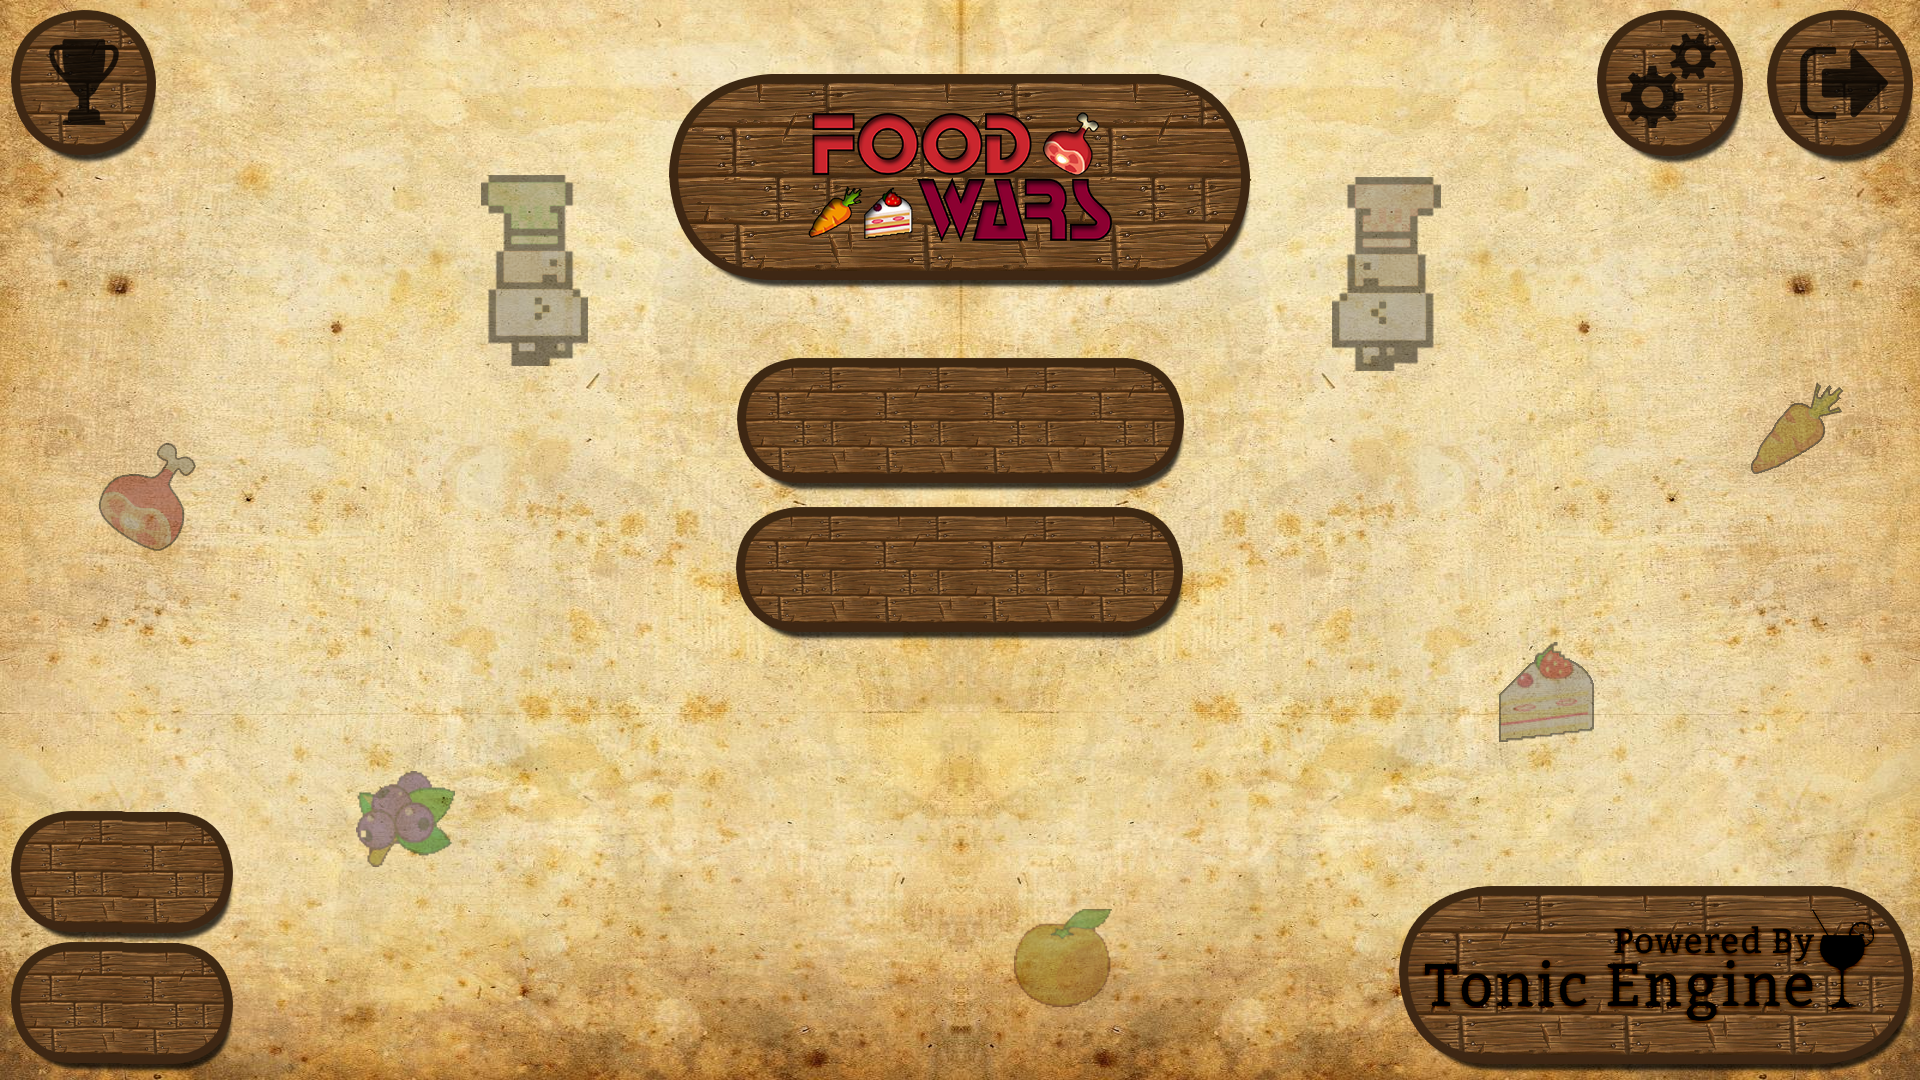
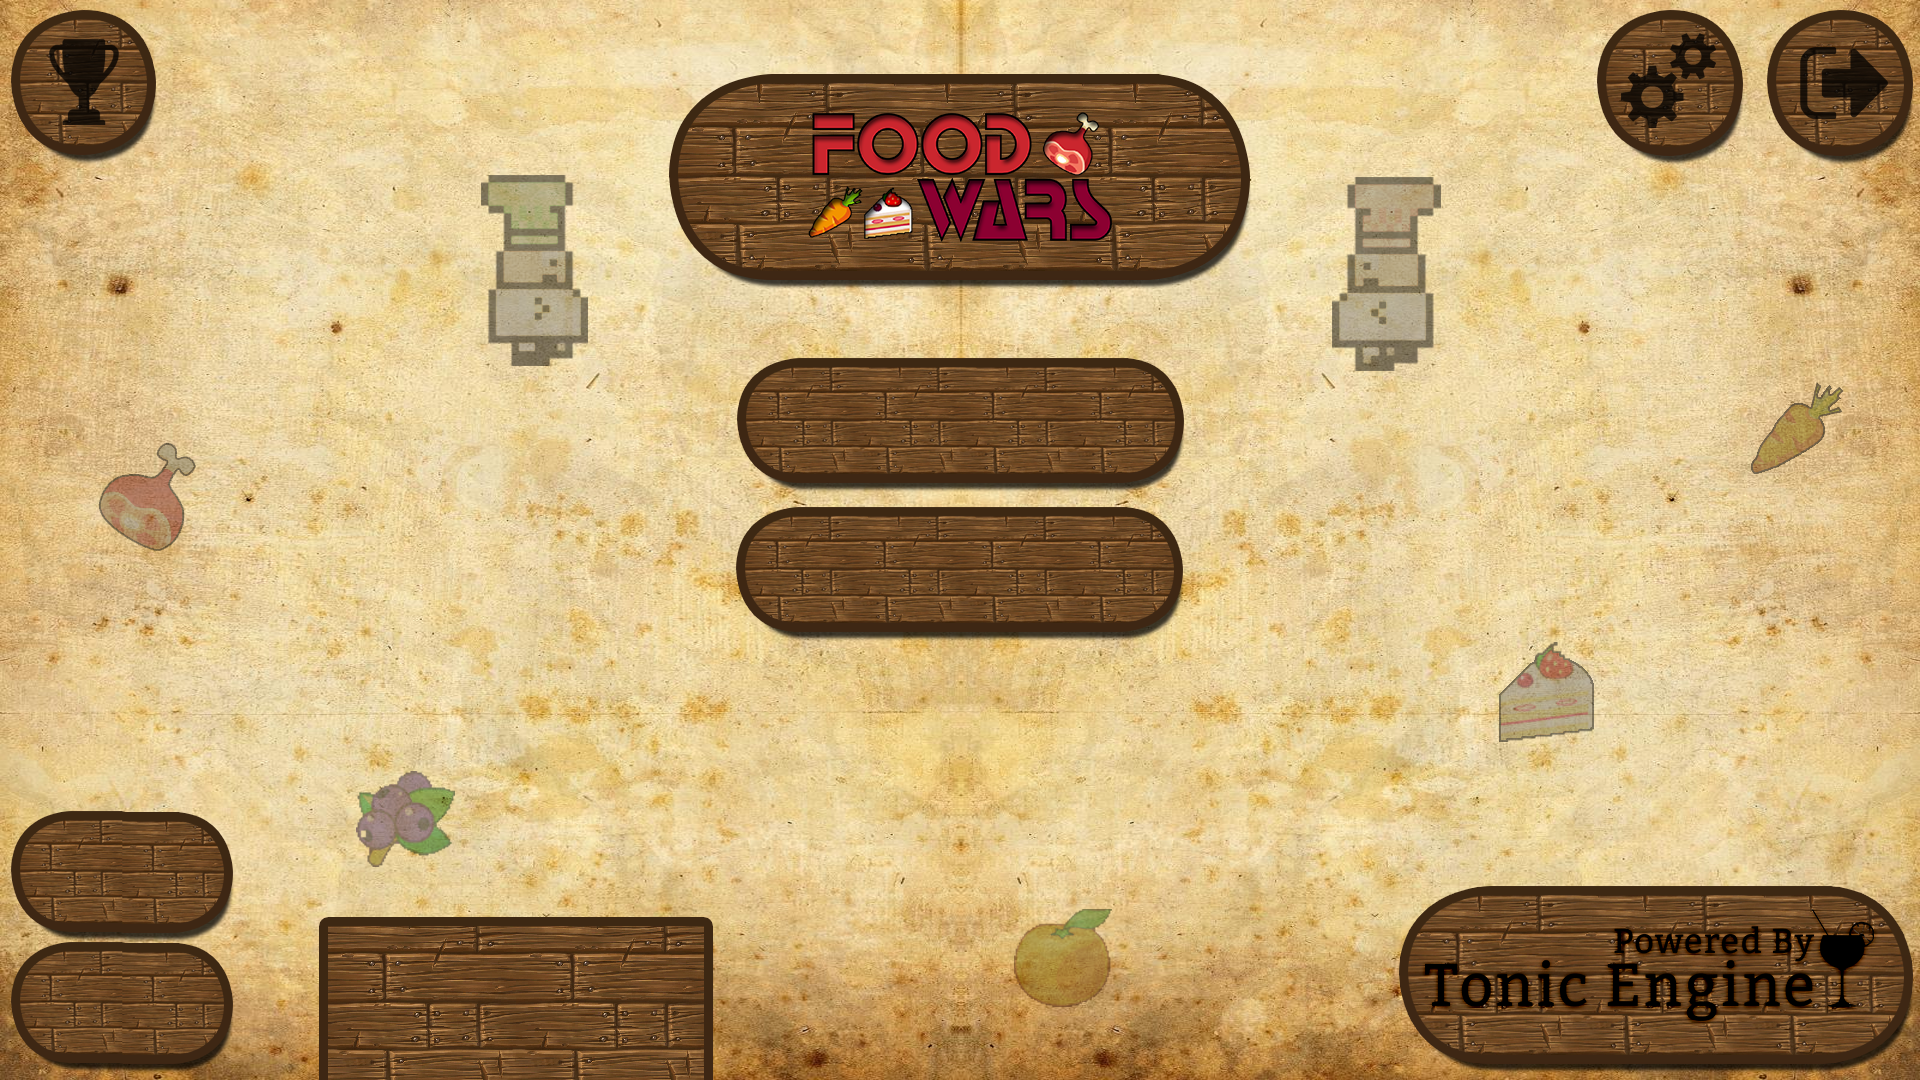
Audio changes and new advertisement

Changed region(s): [[0.1562, 0.825, 0.375, 1.0]]

diff --git a/TonicEngine/Facades/Audio/AudioFacade.cpp b/TonicEngine/Facades/Audio/AudioFacade.cpp
@@ -87,7 +87,7 @@ const char* AudioFacade::getAudio(const char* audioName) {
 }
 
 void AudioFacade::increaseEffectVolume() {
-    if(_audioPlayer->getEffectVolume() > 128-13){
+    if(_audioPlayer->getEffectVolume() > 128-15){
         _audioPlayer->setEffectVolume(128);
         _effectPercentage = 10;
     }
@@ -100,7 +100,7 @@ void AudioFacade::increaseEffectVolume() {
 }
 
 void AudioFacade::decreaseEffectVolume() {
-    if(_audioPlayer->getEffectVolume() < 13){
+    if(_audioPlayer->getEffectVolume() < 15){
         _audioPlayer->setEffectVolume(0);
         _effectPercentage = 0;
     }
@@ -113,7 +113,7 @@ void AudioFacade::decreaseEffectVolume() {
 }
 
 void AudioFacade::increaseMusicVolume() {
-    if(_audioPlayer->getMusicVolume() > 128-13){
+    if(_audioPlayer->getMusicVolume() > 128-15){
         _audioPlayer->setMusicVolume(128);
         _musicPercentage = 10;
     }
@@ -126,7 +126,7 @@ void AudioFacade::increaseMusicVolume() {
 }
 
 void AudioFacade::decreaseMusicVolume() {
-    if(_audioPlayer->getMusicVolume() < 13){
+    if(_audioPlayer->getMusicVolume() < 15){
         _audioPlayer->setMusicVolume(0);
         _musicPercentage = 0;
     }

diff --git a/FoodWars/Sources/StateMachine/MainMenuScreen.cpp b/FoodWars/Sources/StateMachine/MainMenuScreen.cpp
@@ -62,7 +62,7 @@ MainMenuScreen::MainMenuScreen(ScreenStateManager& context) :
             [c = _context]() {
                 c->createOrSetActiveScreen<AdvertisingScreen>();
             },
-            400, 150, 300, 750,
+            300, 110, 280, 780,
             Colour{255,255,255,0});
     _advertisement->addToRender(&_renderList);
 
